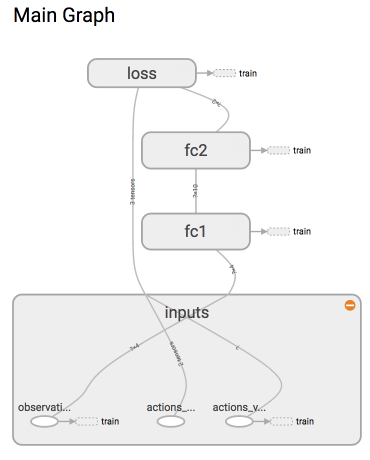
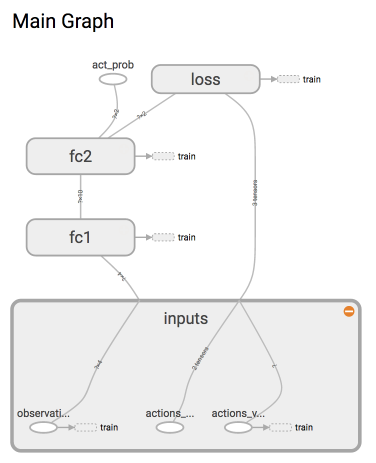
edited

diff --git a/_contents/tutorials/machine-learning/reinforcement-learning/5-2-policy-gradient-softmax2.md b/_contents/tutorials/machine-learning/reinforcement-learning/5-2-policy-gradient-softmax2.md
@@ -34,13 +34,13 @@ class PolicyGradient:
     # 初始化 (有改变)
     def __init__(self, n_actions, n_features, learning_rate=0.01, reward_decay=0.95, output_graph=False):
 
-    # 建立 policy gradient 神经网络 (有改变样)
+    # 建立 policy gradient 神经网络 (有改变)
     def _build_net(self):
 
-    # 选行为 (有改变样)
+    # 选行为 (有改变)
     def choose_action(self, observation):
 
-    # 存储回合 transition (有改变样)
+    # 存储回合 transition (有改变)
     def store_transition(self, s, a, r):
 
     # 学习更新参数 (有改变)
@@ -100,24 +100,26 @@ class PolicyGradient:
         # fc1
         layer = tf.layers.dense(
             inputs=self.tf_obs,
-            units=10,
-            activation=None,
-            kernel_initializer=tf.random_normal_initializer(mean=0, stddev=0.2),
-            bias_initializer=tf.constant_initializer(0.01),
+            units=10,   # 输出个数
+            activation=tf.nn.tanh,  # 激励函数
+            kernel_initializer=tf.random_normal_initializer(mean=0, stddev=0.3),
+            bias_initializer=tf.constant_initializer(0.1),
             name='fc1'
         )
         # fc2
-        self.all_act_prob = tf.layers.dense(
+        all_act = tf.layers.dense(
             inputs=layer,
-            units=self.n_actions,
-            activation=tf.nn.softmax,
-            kernel_initializer=tf.random_normal_initializer(mean=0, stddev=0.2),
-            bias_initializer=tf.constant_initializer(0.01),
+            units=self.n_actions,   # 输出个数
+            activation=None,    # 之后再加 Softmax
+            kernel_initializer=tf.random_normal_initializer(mean=0, stddev=0.3),
+            bias_initializer=tf.constant_initializer(0.1),
             name='fc2'
         )
 
+        self.all_act_prob = tf.nn.softmax(all_act, name='act_prob')  # 激励函数 softmax 出概率
+
         with tf.name_scope('loss'):
-            log_prob = tf.nn.sparse_softmax_cross_entropy_with_logits(logits=self.all_act_prob, labels=self.tf_acts) # 所选 action 的概率 log 值
+            log_prob = tf.nn.sparse_softmax_cross_entropy_with_logits(logits=all_act, labels=self.tf_acts) # 所选 action 的概率 log 值
             loss = tf.reduce_mean(log_prob * self.tf_vt)  # (vt = 本reward + 衰减的未来reward) 引导参数的梯度下降
 
         with tf.name_scope('train'):

diff --git a/_contents/tutorials/machine-learning/reinforcement-learning/5-1-policy-gradient-softmax1.md b/_contents/tutorials/machine-learning/reinforcement-learning/5-1-policy-gradient-softmax1.md
@@ -53,7 +53,7 @@ RENDER = False  # 在屏幕上显示模拟窗口会拖慢运行速度, 我们等
 DISPLAY_REWARD_THRESHOLD = 400  # 当 回合总 reward 大于 400 时显示模拟窗口
 
 env = gym.make('CartPole-v0')   # CartPole 这个模拟
-env.seed(2)     # 普通的 Policy gradient 方法, 使得回合的 variance 比较大, 所以我们选了一个好点的随机种子
+env.seed(1)     # 普通的 Policy gradient 方法, 使得回合的 variance 比较大, 所以我们选了一个好点的随机种子
 
 print(env.action_space)     # 显示可用 action
 print(env.observation_space)    # 显示可用 state 的 observation
@@ -65,7 +65,7 @@ RL = PolicyGradient(
     n_actions=env.action_space.n,
     n_features=len(env.observation_space.high),
     learning_rate=0.02,
-    reward_decay=0.7,   # gamma
+    reward_decay=0.99,   # gamma
     # output_graph=True,    # 输出 tensorboard 文件
 )
 ```

diff --git a/_contents/tutorials/machine-learning/tensorflow/2-5-placeholde.md b/_contents/tutorials/machine-learning/tensorflow/2-5-placeholde.md
@@ -27,7 +27,7 @@ input1 = tf.placeholder(tf.float32)
 input2 = tf.placeholder(tf.float32)
 
 # mul = multiply 是将input1和input2 做乘法运算，并输出为 output 
-ouput = tf.mul(input1, input2)
+ouput = tf.multiply(input1, input2)
 ```
 
 接下来, 传值的工作交给了 `sess.run()` , 需要传入的值放在了`feed_dict={}` 并一一对应每一个 `input`. 
